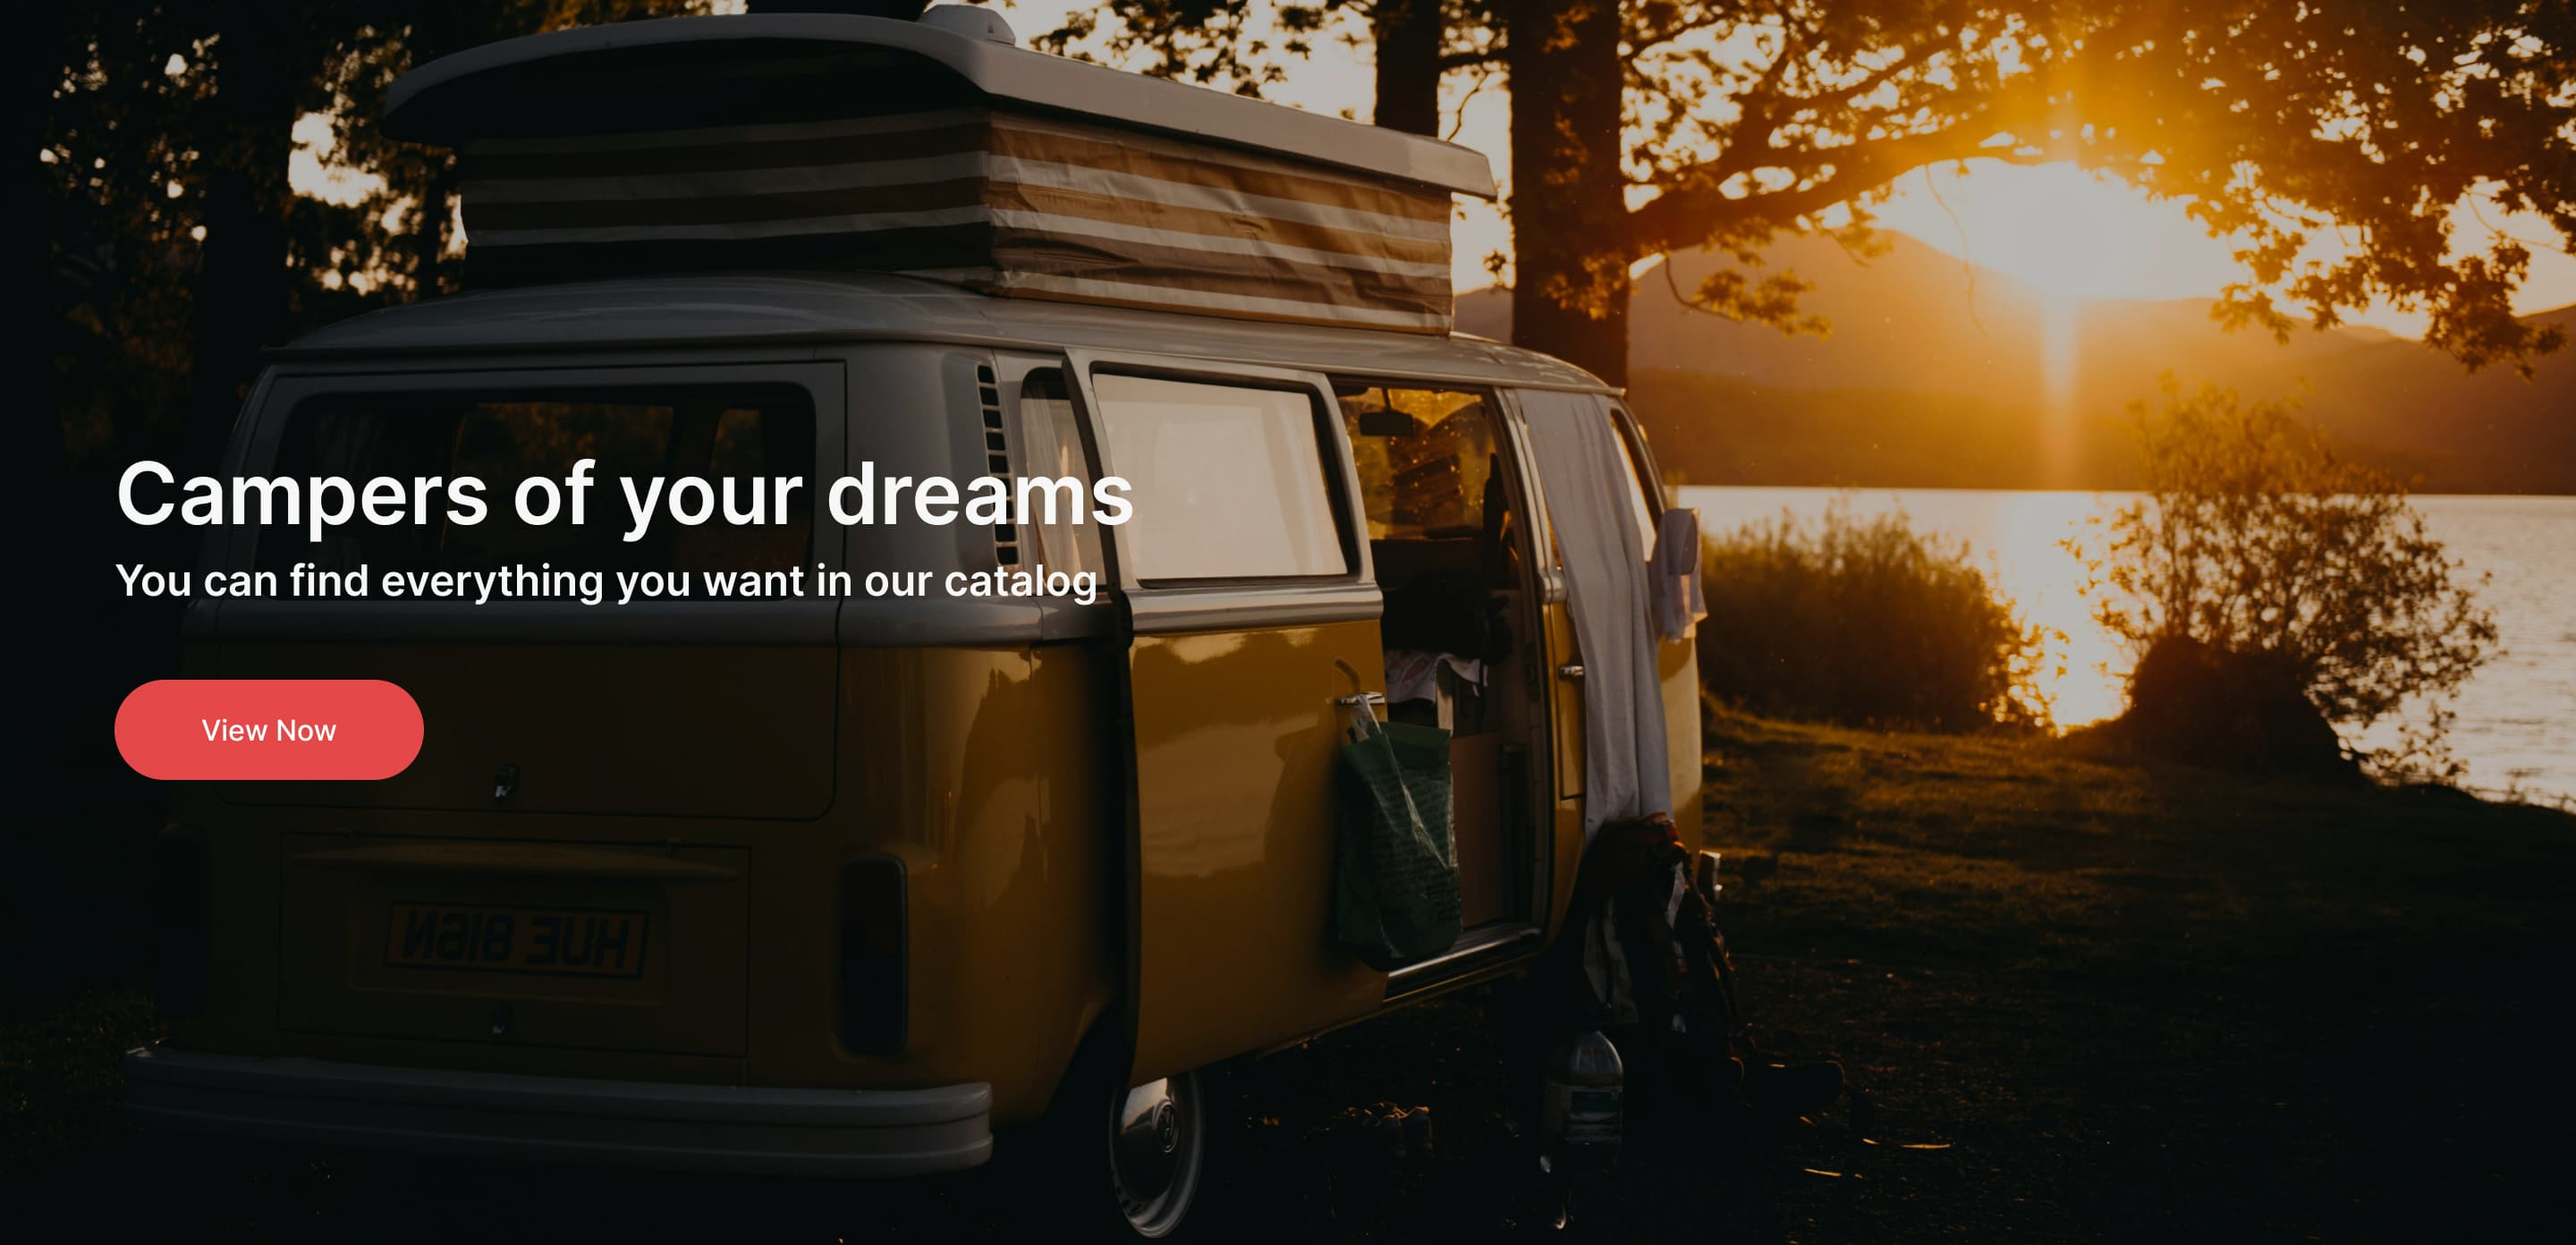
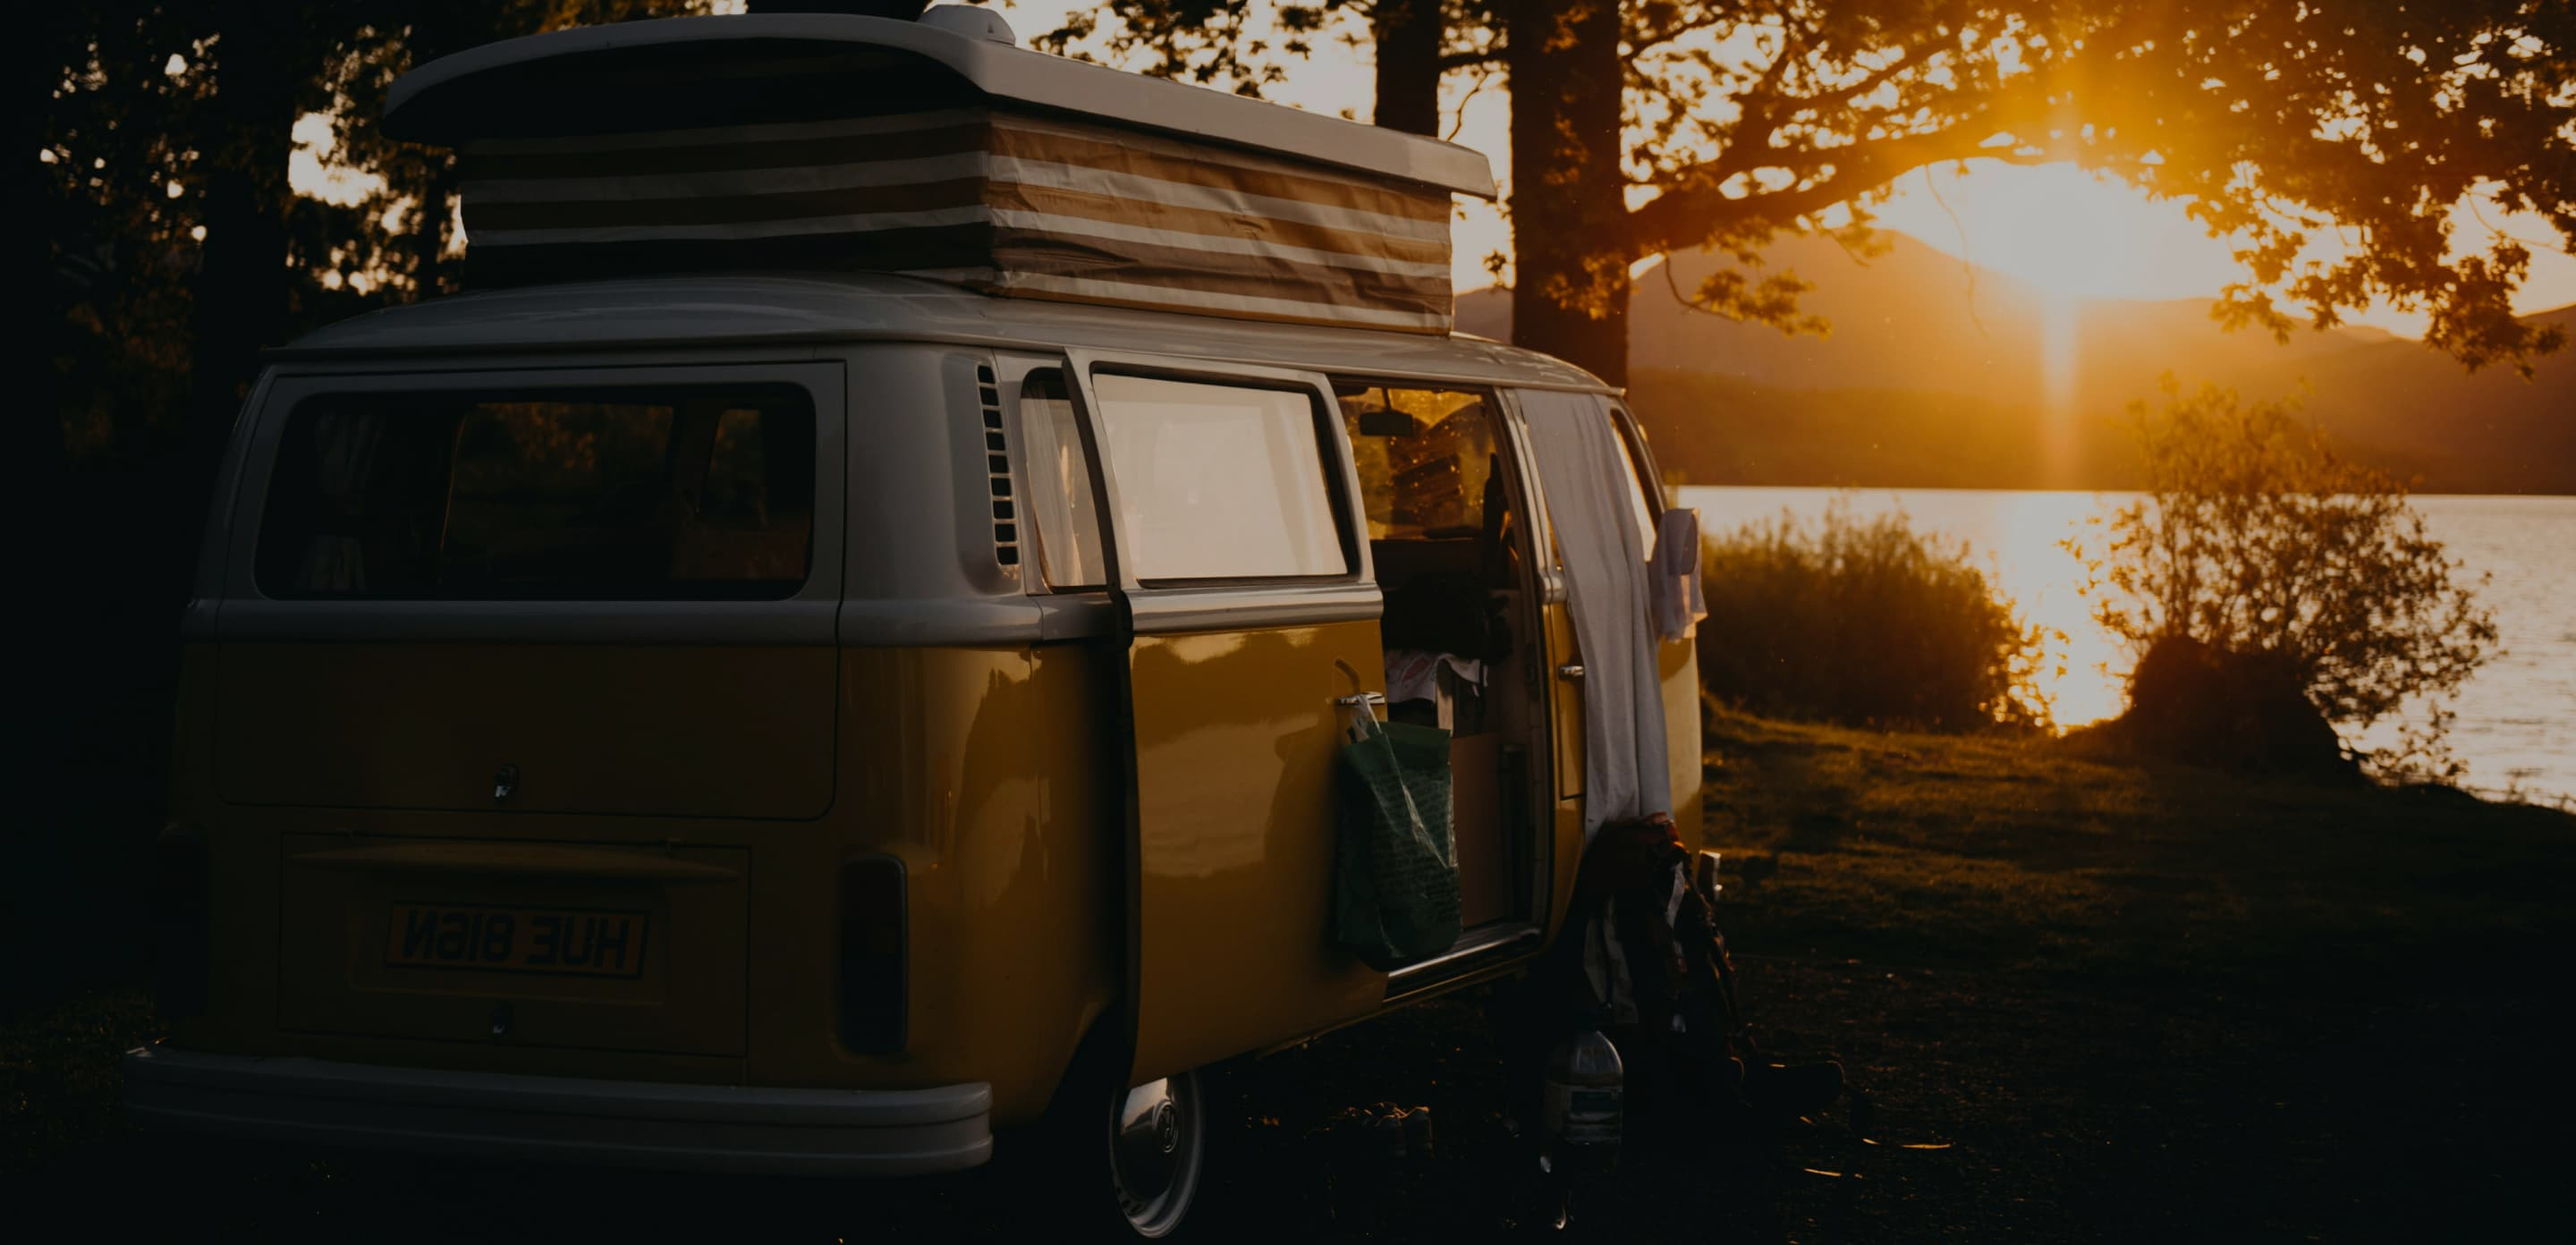
Feat: Add header, home page css

Changed region(s): [[0.0312, 0.3707, 0.4375, 0.4943], [0.0312, 0.5251, 0.1875, 0.6487]]

diff --git a/src/components/Header/Header.jsx b/src/components/Header/Header.jsx
@@ -1,31 +1,37 @@
 import React from "react";
-import { Link } from "react-router-dom";
+import { Link, NavLink } from "react-router-dom";
+import styled from "styled-components";
+import { ReactComponent as Logo } from "../../assets/images/logo.svg";
 import css from "./Header.module.css";
+
+const StyledLink = styled(NavLink)`
+  &.active {
+    color: #d84343;
+  }
+`;
 
 const Header = () => {
   return (
     <header className={css.header}>
-      <nav>
+      <nav className={css.headerNav}>
         <Link className={css.headerLogo} to="/">
-          <svg width="136" height="16">
-            <use href="../../assets/images/icons.svg#icon-logo"></use>
-          </svg>
+          <Logo className={css.logoIcon} />
         </Link>
         <ul className={css.headerList}>
           <li className={css.headerListItem}>
-            <Link className={css.headerLink} to="/">
+            <StyledLink to="/" className={css.headerLink}>
               Home
-            </Link>
+            </StyledLink>
           </li>
           <li className={css.headerListItem}>
-            <Link className={css.headerLink} to="/catalog">
+            <StyledLink to="/catalog" className={css.headerLink}>
               Catalog
-            </Link>
+            </StyledLink>
           </li>
           <li className={css.headerListItem}>
-            <Link className={css.headerLink} to="/favorites">
+            <StyledLink to="/favorites" className={css.headerLink}>
               Favorites
-            </Link>
+            </StyledLink>
           </li>
         </ul>
       </nav>

diff --git a/src/pages/Home/Home.module.css b/src/pages/Home/Home.module.css
@@ -1,0 +1,54 @@
+.hero {
+    background-color: var(--main-color);
+    background-image: url(../../assets//images//hero-image.jpg);
+    background-repeat: no-repeat;
+    background-position: center;
+    background-size: cover;
+    max-width: 1440px;
+    padding: 260px 805px 260px 64px;
+}
+
+@media (min-device-pixel-ratio: 2),
+(min-resolution: 192dpi),
+(min-resolution: 2dppx) {
+    .hero {
+        background-image: url(../../assets//images//hero-image-2x.jpg);
+    }
+}
+
+.heroTitle {
+    font-family: "Inter Semibold";
+    color: var(--inputs-color);
+    font-size: 48px;
+    line-height: 1.5;
+    margin-bottom: 16px;
+}
+
+.heroText {
+    font-family: "Inter Semibold";
+    color: var(--inputs-color);
+    font-size: 24px;
+    line-height: 1.3;
+    margin-bottom: 40px;
+}
+
+.heroBtn {
+    display: block;
+    min-width: 173px;
+    height: 56px;
+    padding: 16px 48.5px;
+    font-family: "Inter Medium";
+    line-height: 1.5;
+    letter-spacing: -0.005em;
+    text-transform: capitalize;
+    color: var(--white-color);
+    background-color: var(--button-color);
+    border-radius: 200px;
+    border: none;
+    transition: background-color var(--transition);
+}
+
+.heroBtnn:hover,
+.heroBtn:focus {
+    background-color: var(--button-hover-color);
+}

diff --git a/src/index.css b/src/index.css
@@ -1,29 +1,39 @@
 @import-normalize;
 
 @font-face {
-  font-family: "Inter";
+  font-family: "Inter Regular";
   src: url("./assets/fonts/Inter-18pt-Regular.ttf") format("truetype");
   font-weight: normal; /* Regular */
   font-style: normal;
 }
 
 @font-face {
-  font-family: "Inter";
+  font-family: "Inter Medium";
   src: url("./assets/fonts/Inter-18pt-Medium.ttf") format("truetype");
   font-weight: 500; /* Medium */
   font-style: normal;
 }
 
 @font-face {
-  font-family: "Inter";
+  font-family: "Inter Semibold";
   src: url("./assets/fonts/Inter-18pt-SemiBold.ttf") format("truetype");
   font-weight: 600; /* SemiBold */
   font-style: normal;
 }
 
+:root {
+  --inputs-color: #F7F7F7;
+  --button-color: #E44848;
+  --button-hover-color: #D84343;
+  --main-color: #101828;
+  --white-color: #FFFFFF;
+  --transition: 250ms cubic-bezier(0.4, 0, 0.2, 1);
+}
+
 body {
-  font-family: "Inter", sans-serif;
-  font-size: 18px; /* Basic font size */
+  font-family: "Inter Regular";
+  font-size: 16px; /* Default font size */
+  color: var(--main-color);
 }
 
 h1,

diff --git a/src/components/Header/Header.module.css b/src/components/Header/Header.module.css
@@ -1,0 +1,27 @@
+.header {
+    max-width: 1440px;
+    padding: 24px 64px;
+    background-color: var(--inputs-color);
+}
+
+.headerNav {
+    display: flex;
+    gap: 450px;
+    align-items: center;
+}
+
+.logoIcon {
+    display: block;
+    width: 136px;
+    height: auto;
+}
+
+.headerList {
+    display: flex;
+    gap: 32px;
+}
+
+.headerLink {
+    font-family: "Inter Medium";
+    line-height: 1.5;
+}
